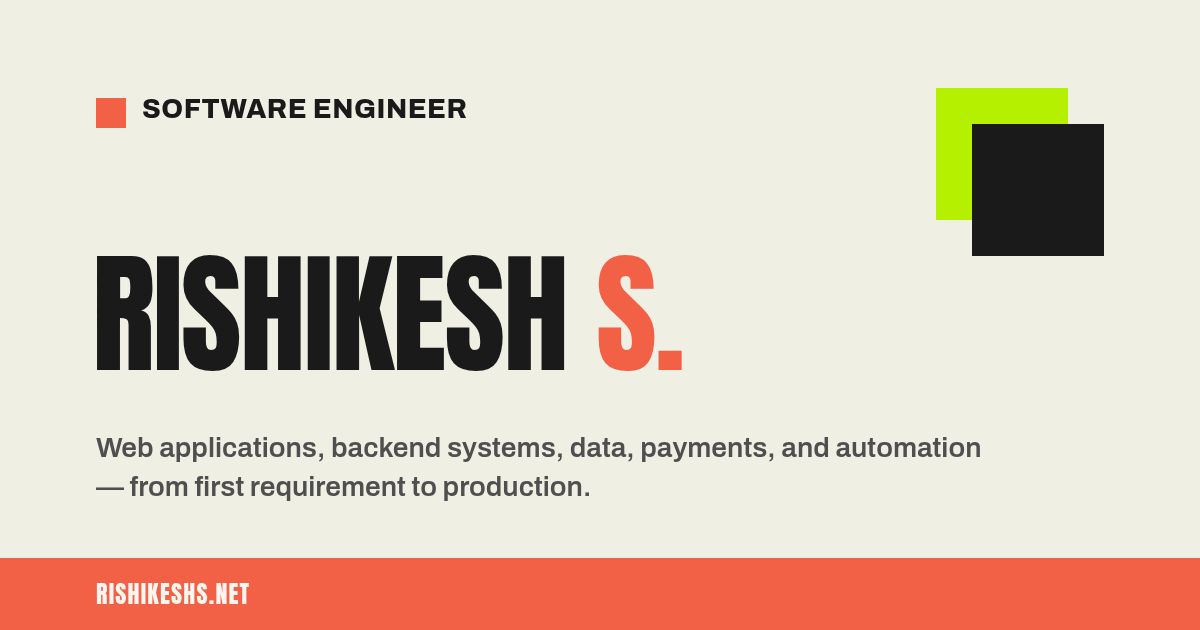
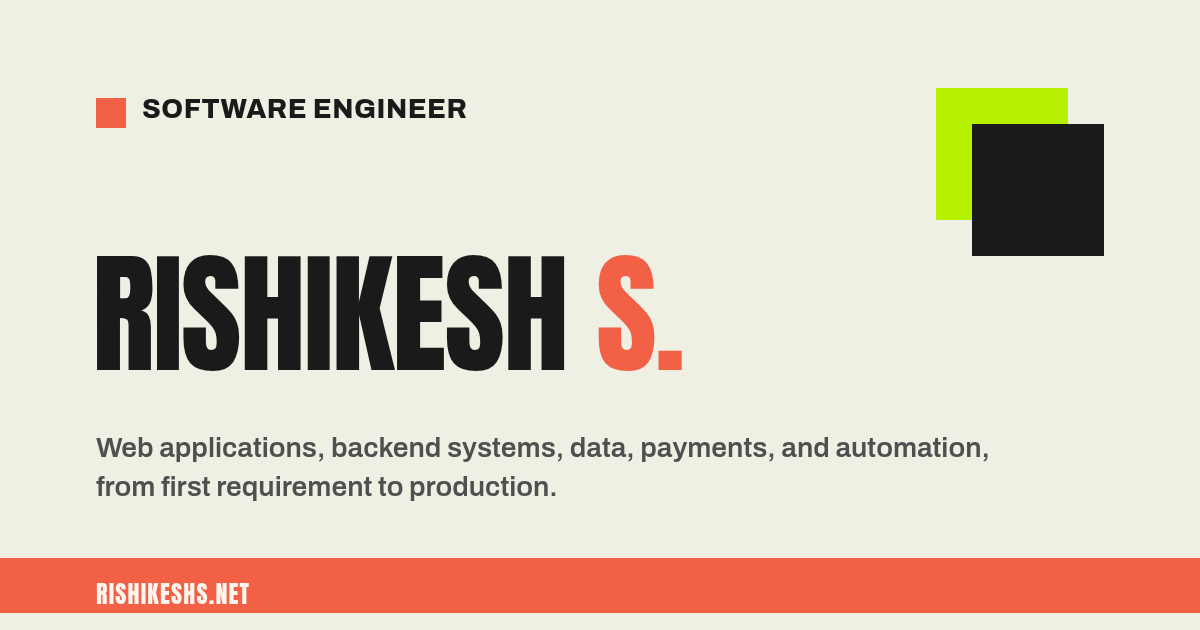
Replace em dashes with plain punctuation in user-facing content

Changed region(s): [[0.0, 0.9651, 1.0, 1.0], [0.0617, 0.754, 0.4933, 0.8143]]

diff --git a/src/lib/llms.ts b/src/lib/llms.ts
@@ -33,7 +33,7 @@ export function buildLlmsTxt(origin: string, posts: BlogPost[]): string {
   lines.push(
     "",
     "## Pages",
-    `- [Home](${home}): Portfolio overview — experience, selected work, skills, awards, and education`,
+    `- [Home](${home}): Portfolio overview covering experience, selected work, skills, awards, and education`,
     `- [Blog](${blog}): Writing and notes on software engineering`,
     `- [Resume](${resume}): PDF resume`,
   );

diff --git a/docs/og-image-source.html b/docs/og-image-source.html
@@ -110,7 +110,7 @@
     <div class="role">SOFTWARE ENGINEER</div>
     <h1>Rishikesh <span>S.</span></h1>
     <div class="tag">
-      Web applications, backend systems, data, payments, and automation — from first requirement to
+      Web applications, backend systems, data, payments, and automation, from first requirement to
       production.
     </div>
     <div class="acid-block"></div>

diff --git a/src/styles/global.css b/src/styles/global.css
@@ -321,7 +321,7 @@
   margin-block: 2.75rem;
 }
 
-/* Scroll reveal — only applies once JS has flagged support via .js */
+/* Scroll reveal. Only applies once JS has flagged support via .js */
 .js [data-reveal] {
   opacity: 0;
   transform: translateY(14px);
